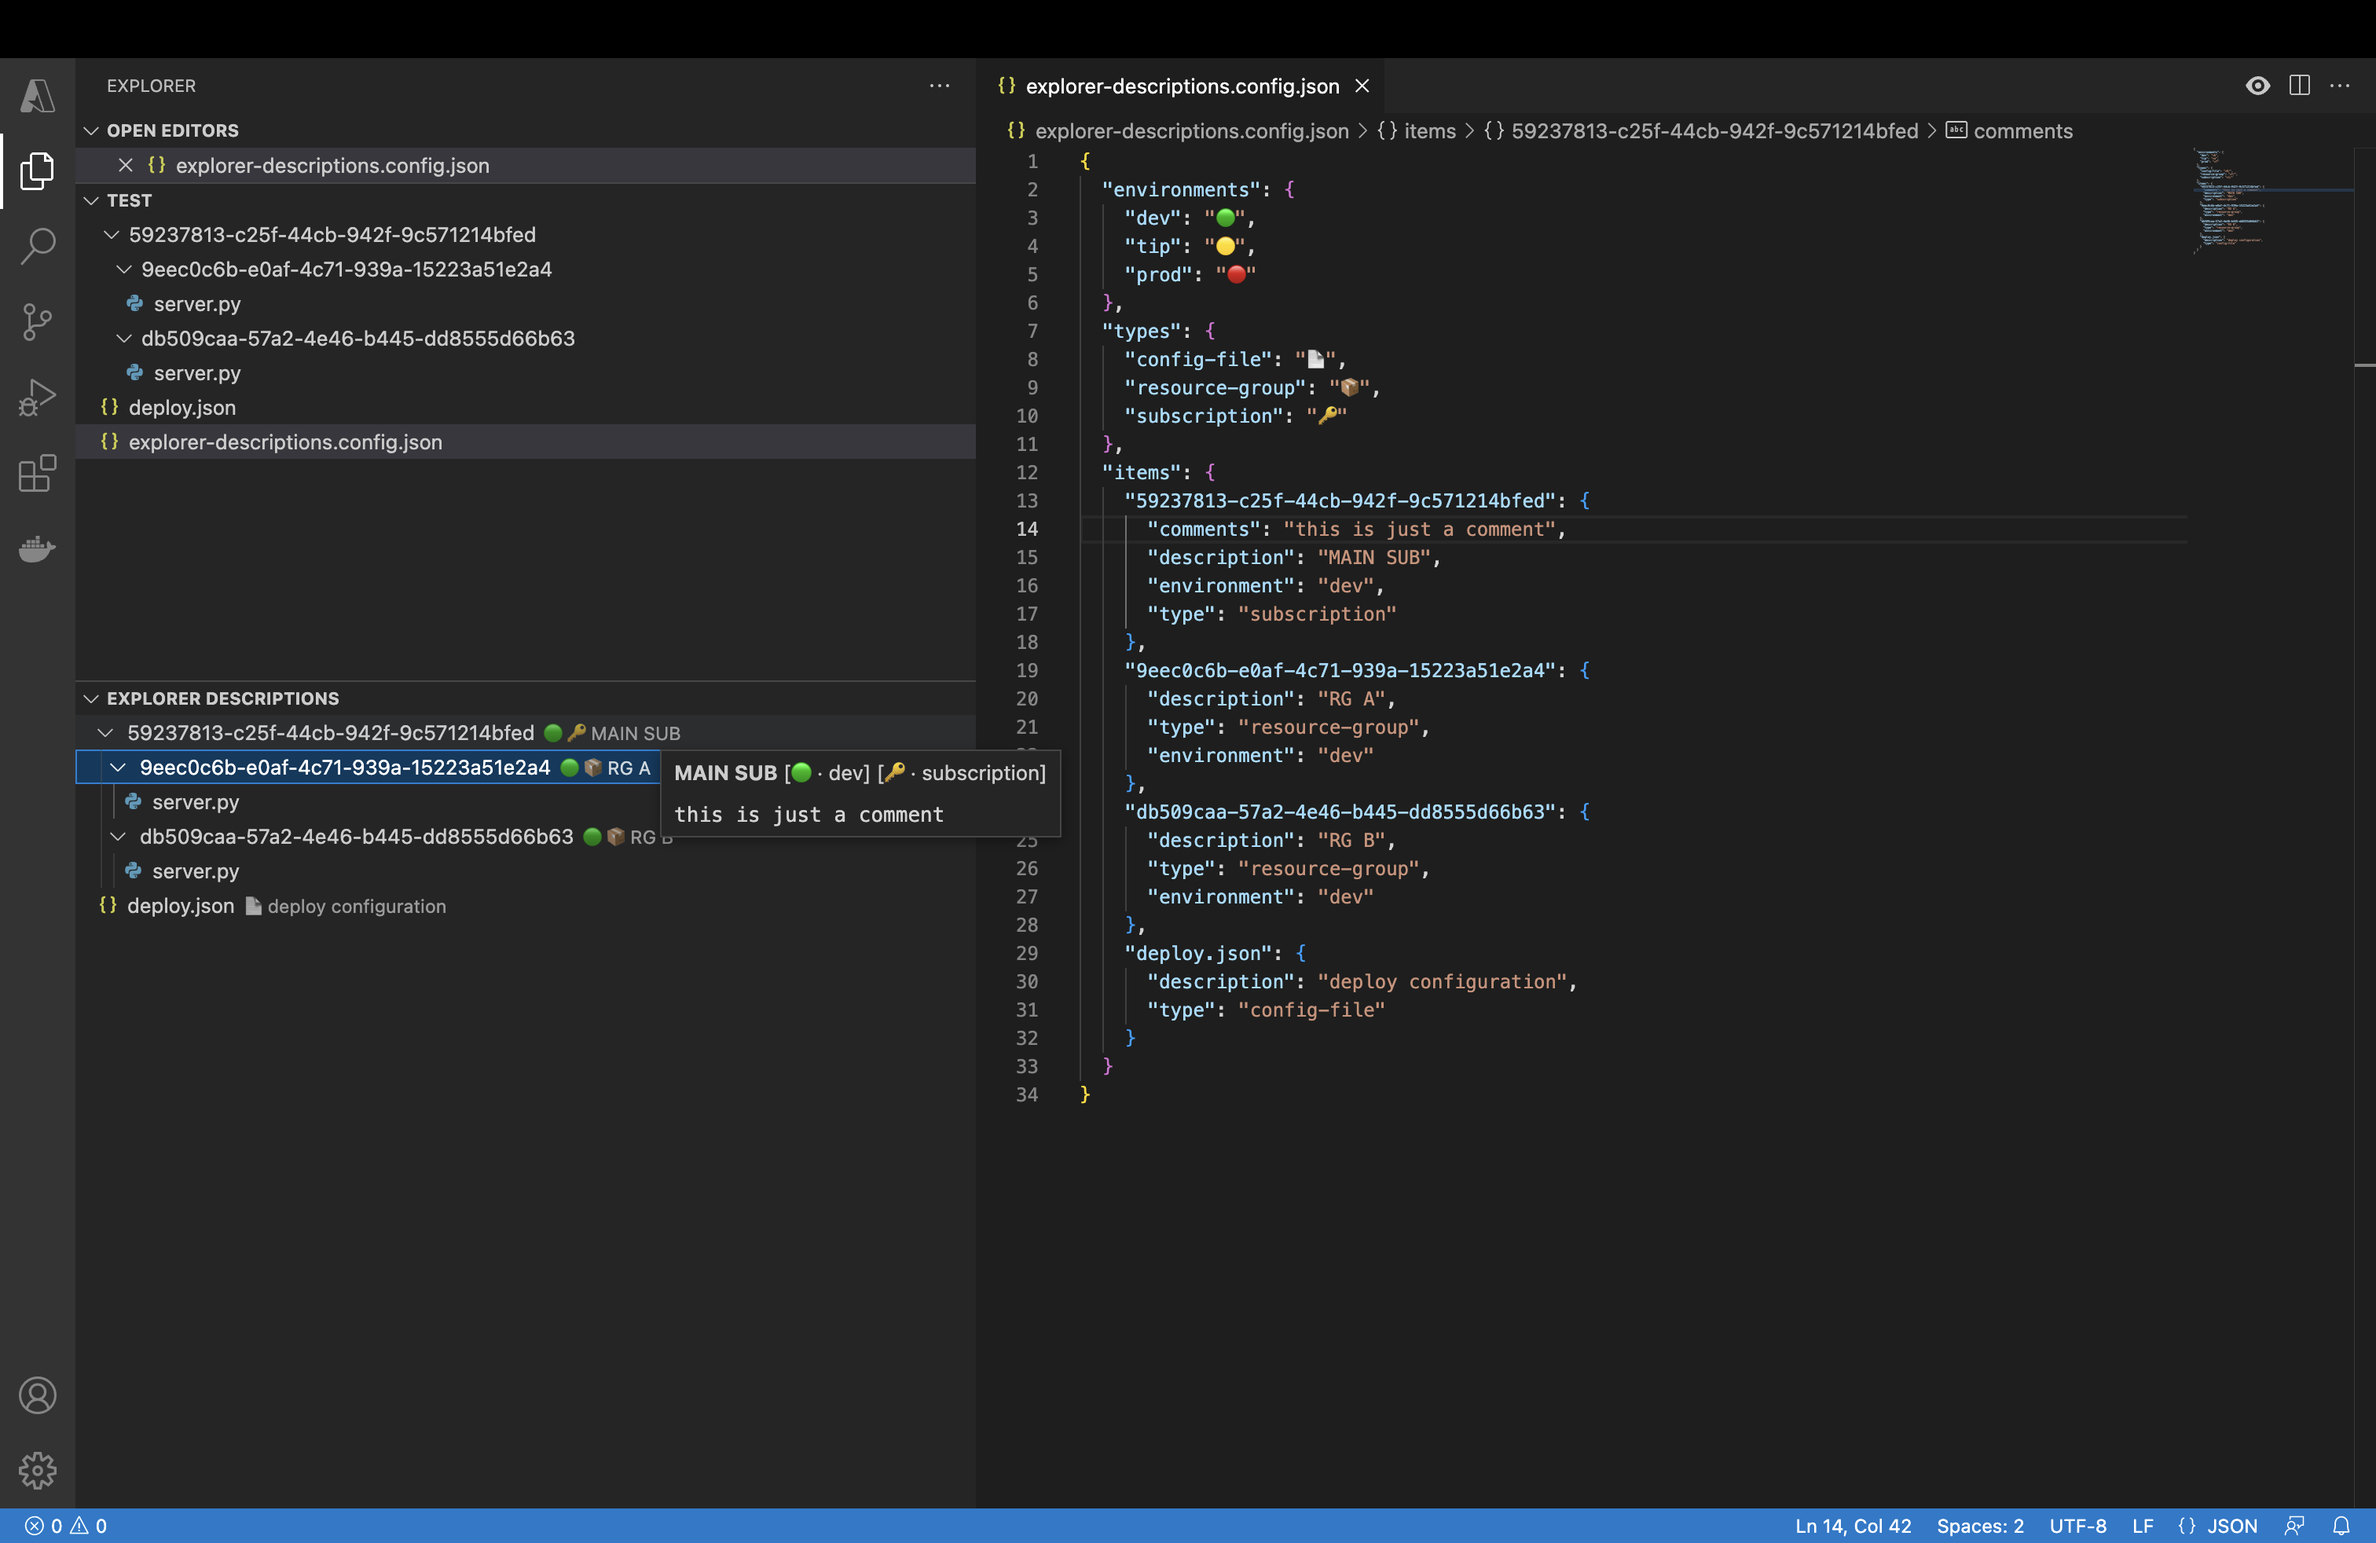
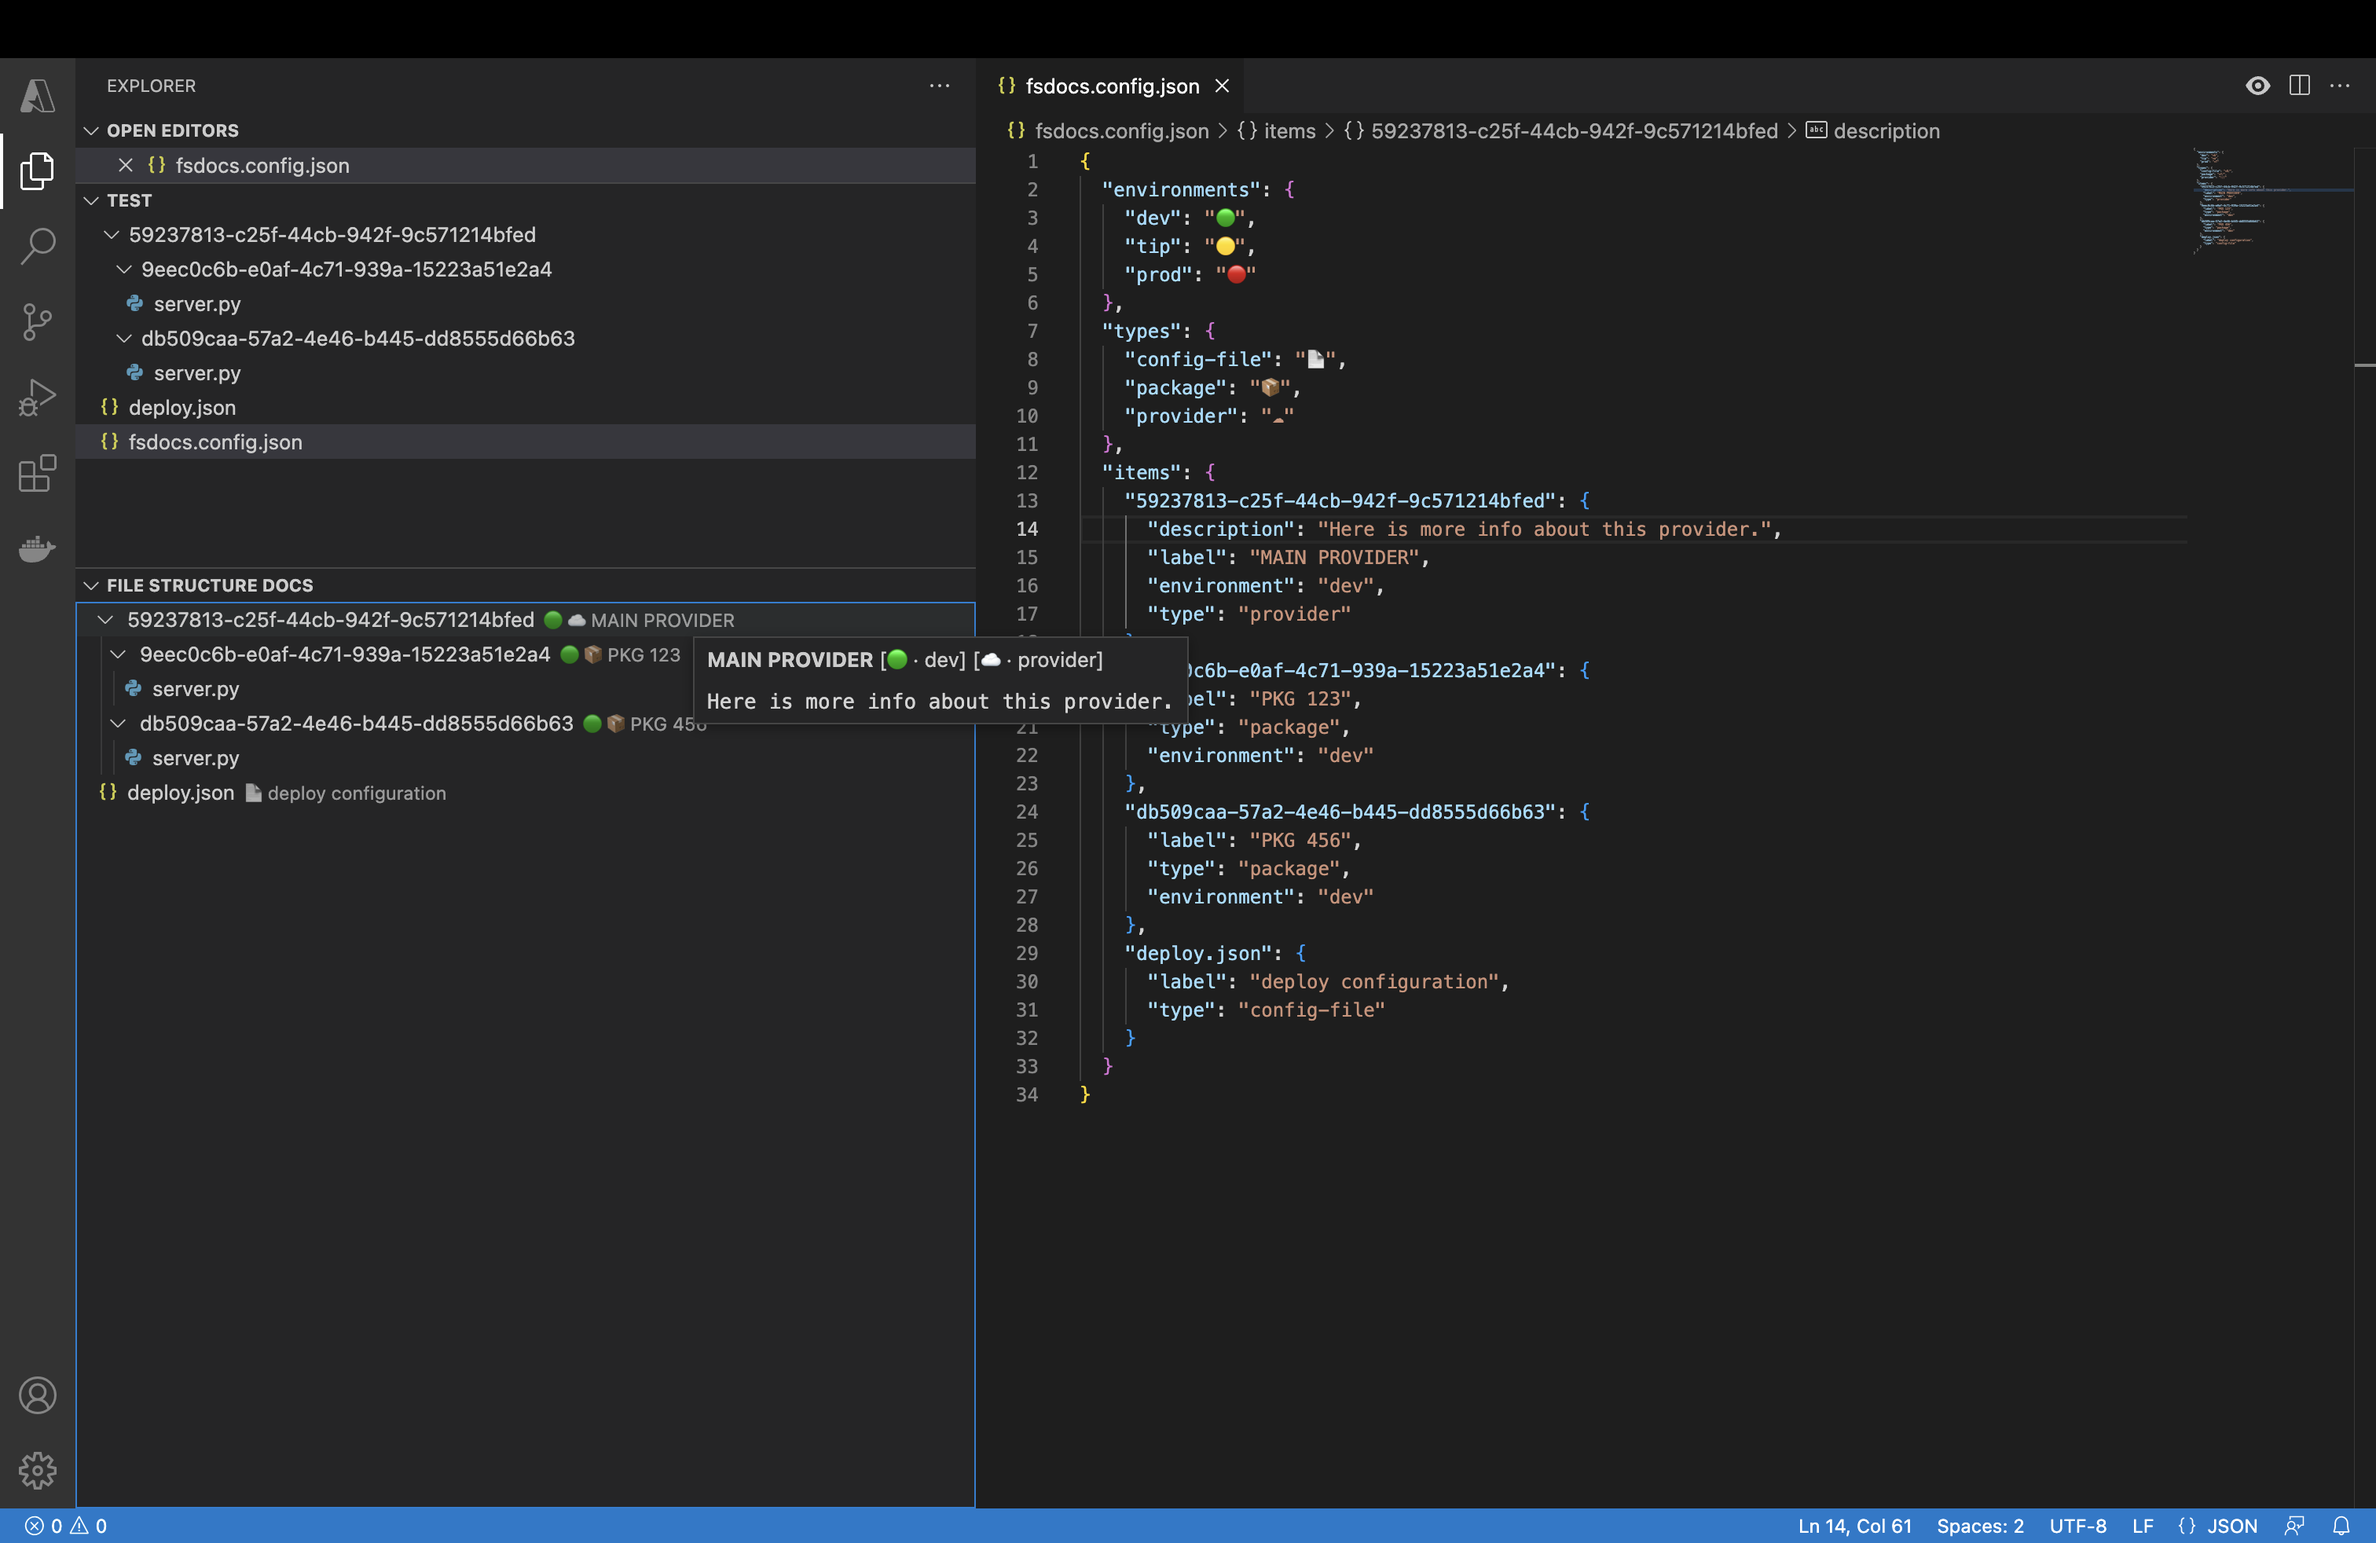
Rename to fsdocs

diff --git a/src/fileExplorer.ts b/src/fileExplorer.ts
@@ -6,8 +6,8 @@ import * as rimraf from 'rimraf';
 import { readFileSync } from "fs";
 
 
-const EXTENSION_NAME = "explorer-descriptions"
-const CONFIG_FILE = "explorer-descriptions.config.json";
+const EXTENSION_NAME = "file-structure-docs"
+const CONFIG_FILE = "fsdocs.config.json";
 
 
 namespace _ {
@@ -377,7 +377,7 @@ export class FileSystemProvider implements vscode.TreeDataProvider<Entry>, vscod
 			str += `${type_icon} `;
 		}
 
-		str += item["description"];
+		str += item["label"];
 
 		return str;
 	}
@@ -385,7 +385,7 @@ export class FileSystemProvider implements vscode.TreeDataProvider<Entry>, vscod
 	makeTreeItemTooltip(item: any): vscode.MarkdownString {
 		const md = new vscode.MarkdownString();
 
-		md.appendMarkdown(`**${item["description"]}**`);
+		md.appendMarkdown(`**${item["label"]}**`);
 
 		if (item.hasOwnProperty("environment")) {
 			var environment = item["environment"];
@@ -401,11 +401,11 @@ export class FileSystemProvider implements vscode.TreeDataProvider<Entry>, vscod
 			md.appendMarkdown(` [${type_icon} · ${type}]`)
 		}
 
-		if (item.hasOwnProperty("comments")) {
-			var comments = item["comments"];
+		if (item.hasOwnProperty("description")) {
+			var description = item["description"];
 			
 			md.appendText("\n\n")
-			md.appendCodeblock(comments)
+			md.appendCodeblock(description)
 		}
 
 		return md;

diff --git a/README.md b/README.md
@@ -1,12 +1,11 @@
-# vscode-explorer-descriptions
+# File Structure Docs
 
-Allow to define descriptions and comments for files and folders to show on a sidebar explorer.
+Allow to add labels and descriptions to document the contents of specific files and folders on your project.
 
 
 ## usage
 
-This extension requires a file `explorer-descriptions.config.json` to be added to your project, with the following structure:
-
+This extension requires a file named `fsdocs.config.json` to be added to your project, with the following structure:
 
 ```json
 {
@@ -17,28 +16,28 @@ This extension requires a file `explorer-descriptions.config.json` to be added t
   },
   "types": {
     "config-file": "📄",
-    "resource-group": "📦",
-    "subscription": "🔑"
+    "package": "📦",
+    "provider": "☁"
   },
   "items": {
     "59237813-c25f-44cb-942f-9c571214bfed": {
-      "comments": "this is just a comment",
-      "description": "MAIN SUB",
+      "description": "Here is more info about this provider.",
+      "label": "MAIN PROVIDER",
       "environment": "dev",
-      "type": "subscription"
+      "type": "provider"
     },
     "9eec0c6b-e0af-4c71-939a-15223a51e2a4": {
-      "description": "RG A",
-      "type": "resource-group",
+      "label": "PKG 123",
+      "type": "package",
       "environment": "dev"
     },
     "db509caa-57a2-4e46-b445-dd8555d66b63": {
-      "description": "RG B",
-      "type": "resource-group",
+      "label": "PKG 456",
+      "type": "package",
       "environment": "dev"
     },
     "deploy.json": {
-      "description": "deploy configuration",
+      "label": "deploy configuration",
       "type": "config-file"
     }
   }
@@ -47,18 +46,18 @@ This extension requires a file `explorer-descriptions.config.json` to be added t
 
 ### enviroments / types
 
-This dictionaries are used to show different indicators next to the description of an item.
+These dictionaries contain different indicators to show right next to the label of an item.
 
 ### items
 
 Collection of identifiers to be used to match with the names of the folders/files in the project. 
 
-* **description (required)**: description of the item associated with the identifier.
-* **comments (optional)**: extended description that will be shown in the tooltip of the item.
+* **label (required)**: label of the item associated with the identifier.
+* **description (optional)**: description that will be shown in the tooltip of the item.
 * **environment (optional)**: environment in which the item runs.
-  * it will look for an indicator within the **environments** section to show right next to the description.
+  * it will look for an indicator within the **environments** section.
 * **type (optional)**: type of the item.
-  * it will look for an indicator within the **types** section to show right next to the description.
+  * it will look for an indicator within the **types** section.
 
 
-![example](https://raw.githubusercontent.com/fedecalendino/vscode-explorer-descriptions/main/images/screenshot.png)
+![example](https://raw.githubusercontent.com/fedecalendino/vscode-fsdocs/main/images/screenshot.png)
